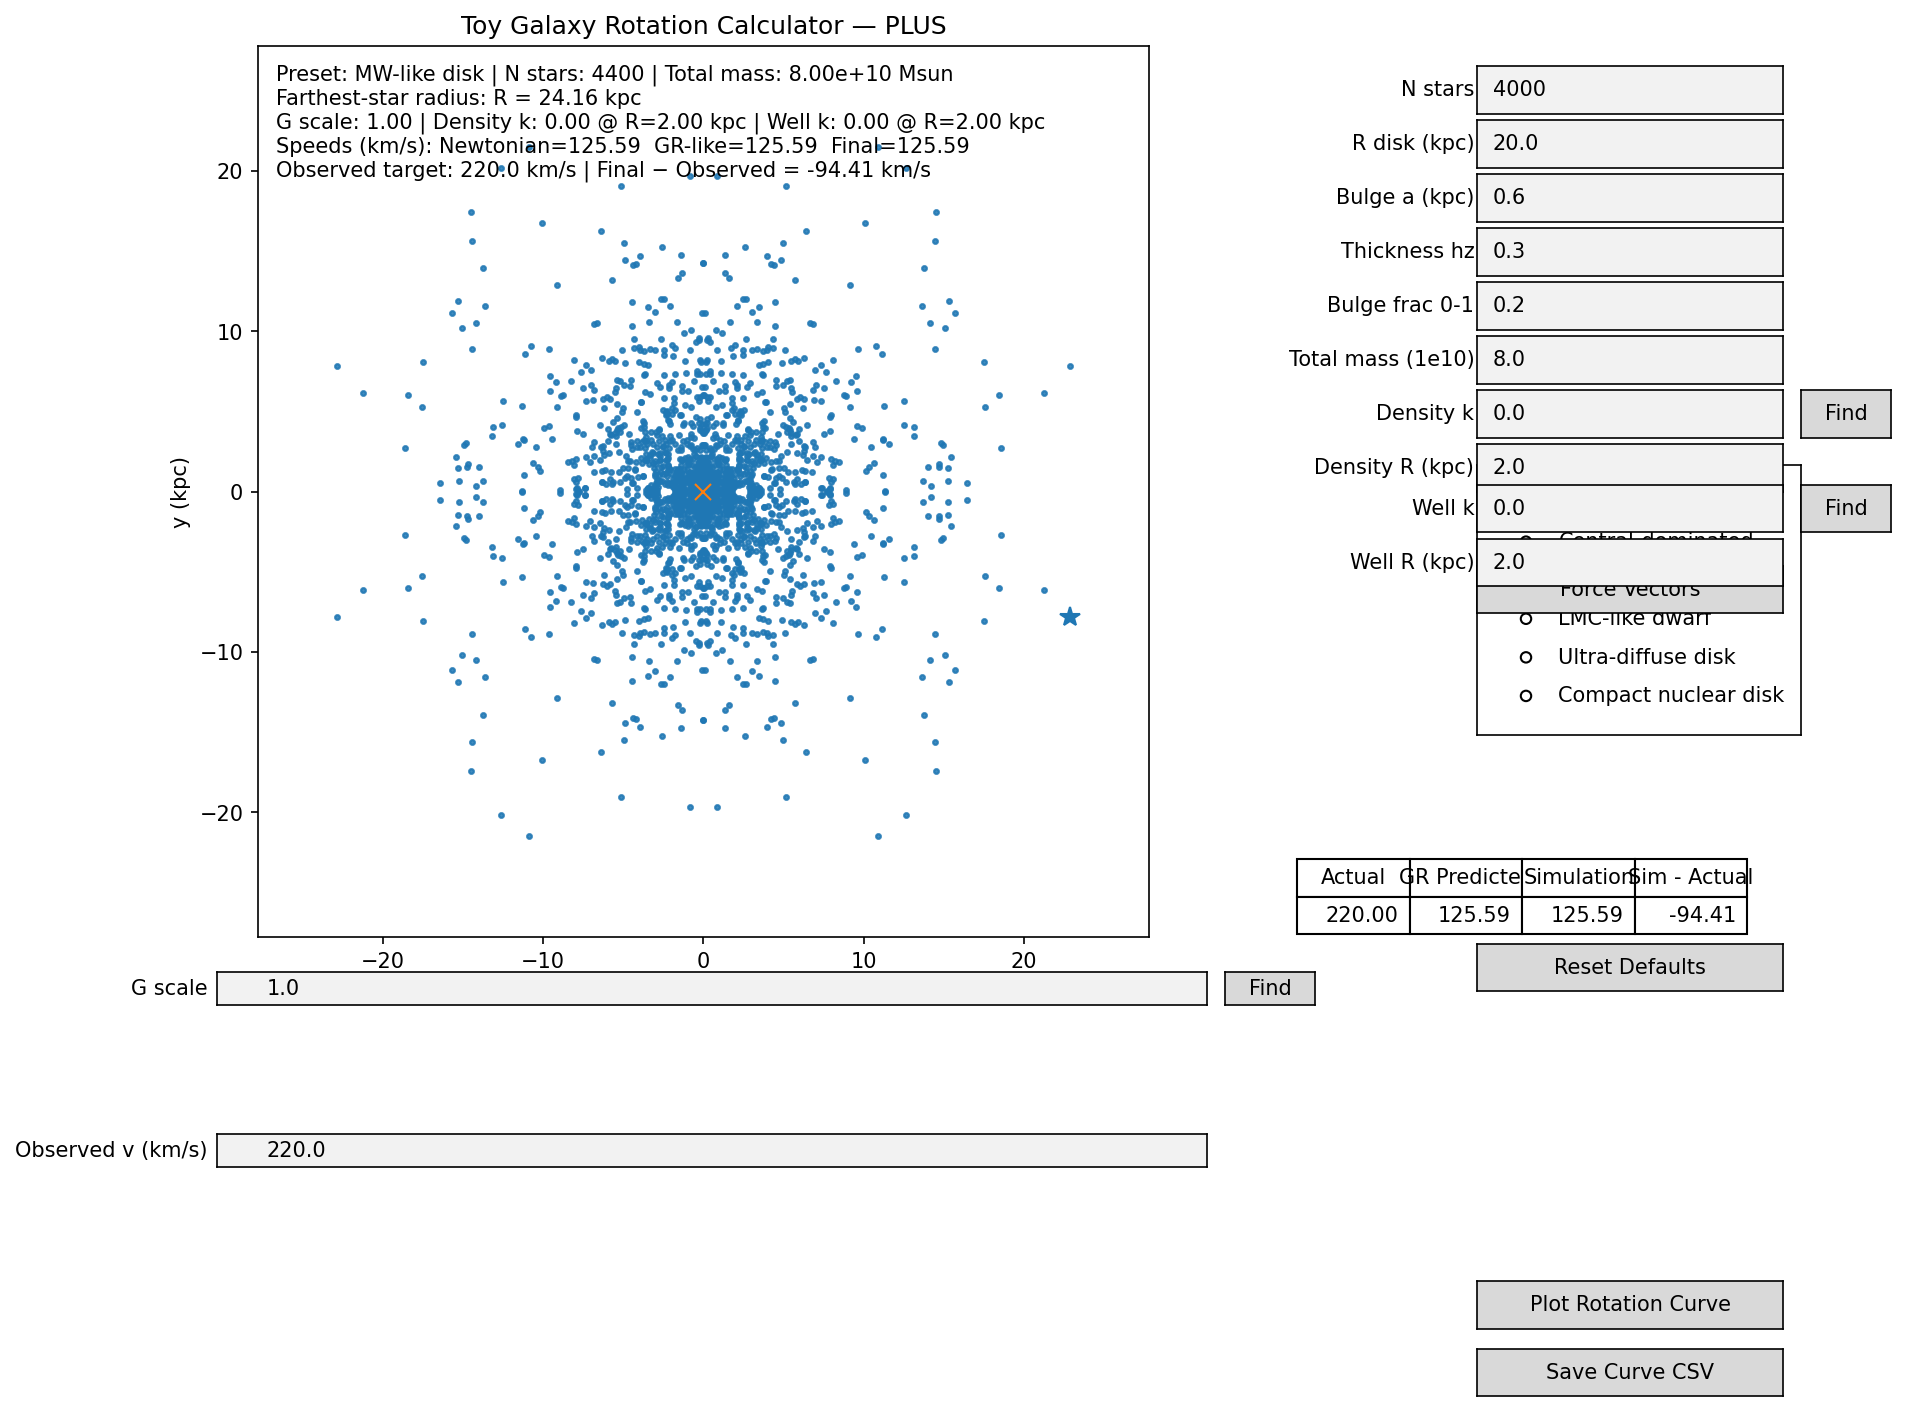
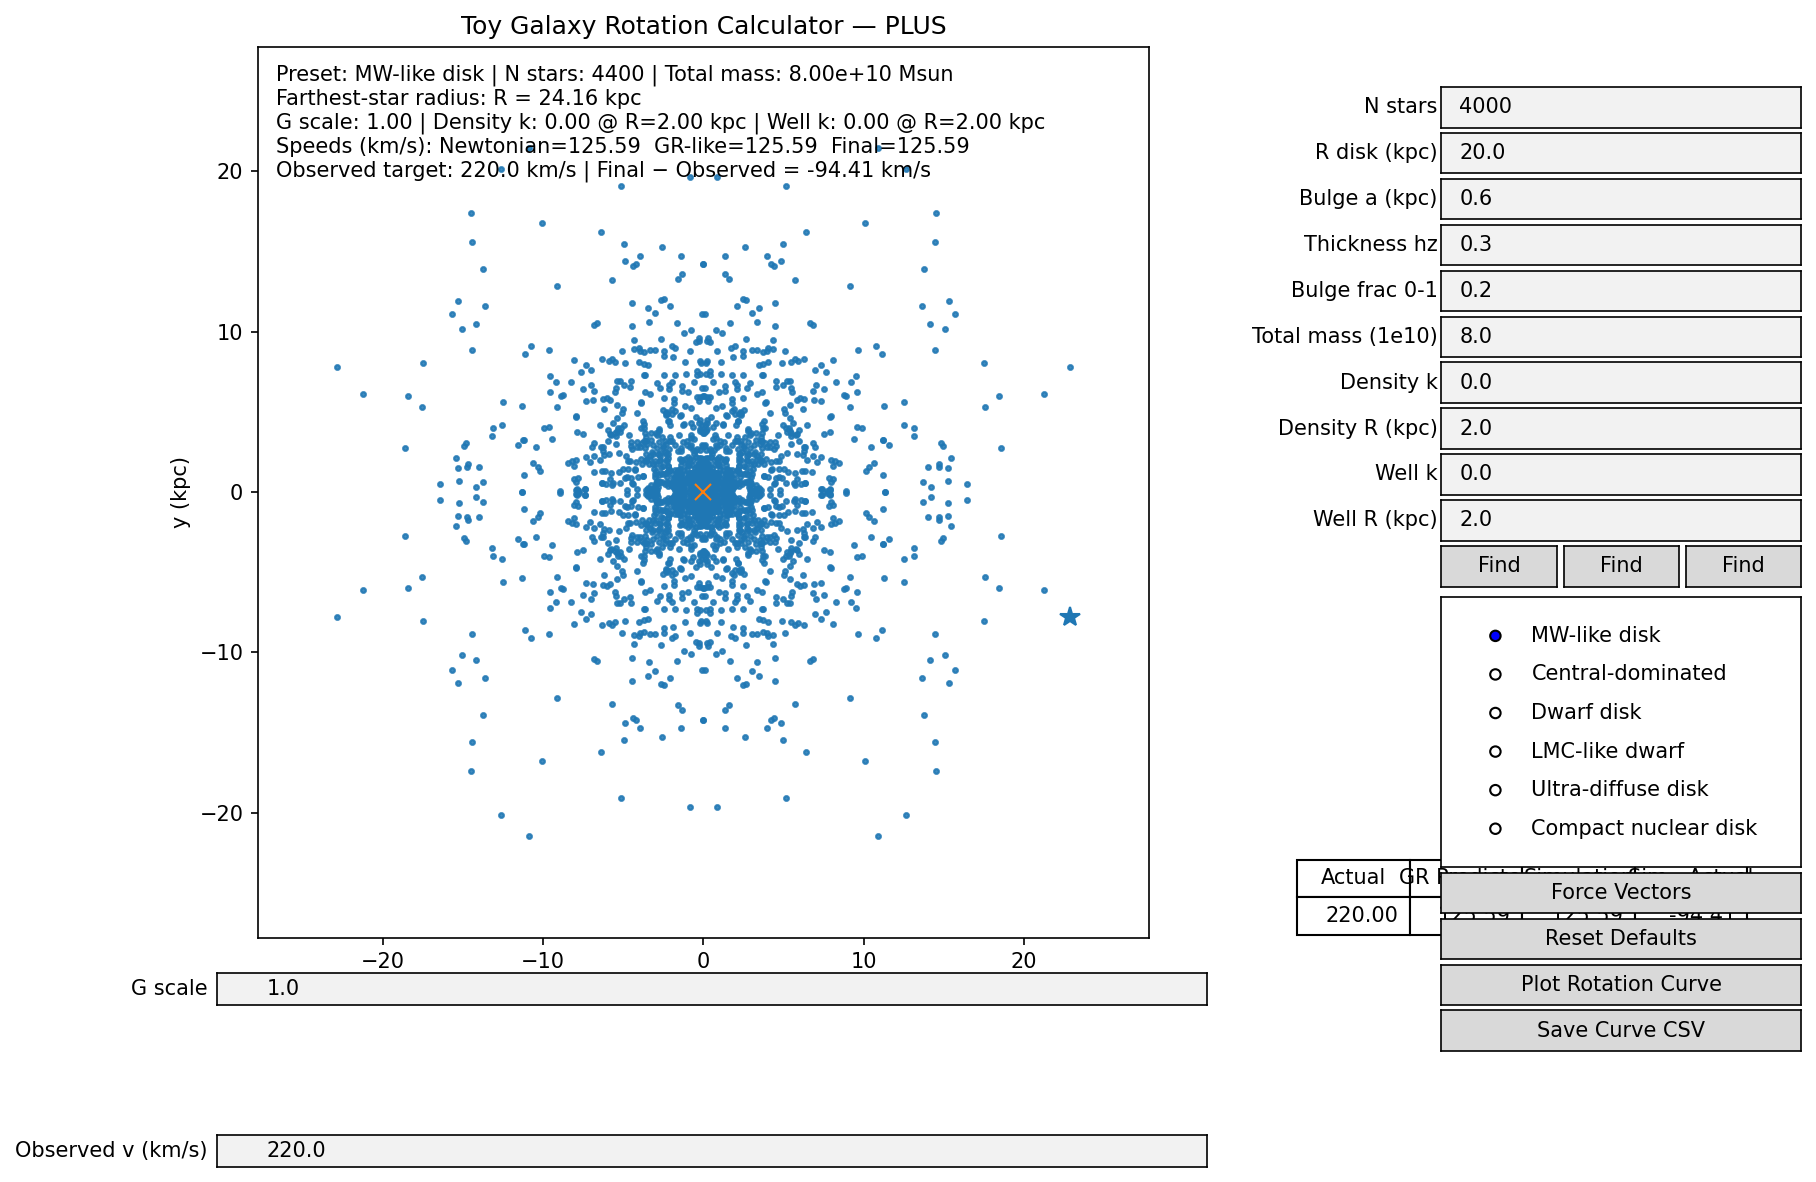
UI reflow: single compact right column with consistent spacing, dedicated small Find row, physics-only refresh for gravity knobs. Verified headless.

diff --git a/toy_galaxy_rotation_calculator_plus.py b/toy_galaxy_rotation_calculator_plus.py
@@ -587,16 +587,51 @@ def main():
         btn.on_clicked(_on_click)
         return btn
 
-    # Finder buttons: keep only for global G and density/well knobs
-    _add_finder(ax_sG,   s_Gscale, 'Find', False)
-    _add_finder(ax_sDk,  s_DensK,  'Find', False)
-    _add_finder(ax_sWk,  s_WellK,  'Find', False)
+    # Dedicated finder buttons (compact row)
+    def _bind_find_button(ax_btn, wrapper, is_structural=False):
+        btn = Button(ax_btn, 'Find')
+        def _on_click(_e=None):
+            sol = _solve_1d(wrapper, is_structural)
+            if sol is not None:
+                wrapper.set_val(sol)
+                update_readout(); fig.canvas.draw_idle(); refresh_rotation_curve()
+        btn.on_clicked(_on_click)
+        return btn
 
     # Wire simple control changes
     for ctl in [s_Nstars, s_Rdisk, s_BulgeA, s_Hz, s_BulgeFrac, s_Mtot1e10]:
         ctl.on_changed(lambda _v: build_simple_galaxy())
+
+    def physics_only(_v=None):
+        update_readout(); fig.canvas.draw_idle(); refresh_rotation_curve()
     for ctl in [s_DensK, s_DensR, s_WellK, s_WellR, s_Gscale, s_vobs]:
-        ctl.on_changed(lambda _v: refresh_main())
+        ctl.on_changed(physics_only)
+
+    # Reflow and compact the right-column UI to avoid overlap
+    def reflow_ui():
+        x = 0.78; w = 0.20; h = 0.03; pad = 0.004
+        y = 0.95
+        # Simple controls (top to bottom)
+        for ax_box in [ax_sN, ax_sR, ax_sBa, ax_sHz, ax_sBf, ax_sMt, ax_sDk, ax_sDr, ax_sWk, ax_sWr]:
+            ax_box.set_position([x, y - h, w, h]); y -= (h + pad)
+        # Finder buttons row under density/well knobs
+        ax_find_g   = fig.add_axes([x, y - h, (w-2*pad)/3, h]);
+        ax_find_dk  = fig.add_axes([x + (w-2*pad)/3 + pad, y - h, (w-2*pad)/3, h]);
+        ax_find_wk  = fig.add_axes([x + 2*((w-2*pad)/3) + 2*pad, y - h, (w-2*pad)/3, h]);
+        _bind_find_button(ax_find_g,  s_Gscale, False)
+        _bind_find_button(ax_find_dk, s_DensK,  False)
+        _bind_find_button(ax_find_wk, s_WellK,  False)
+        y -= (h + 2*pad)
+        # Presets radio
+        ax_radio.set_position([x, y - 0.20, w, 0.20]); y -= (0.20 + pad)
+        # Buttons stack
+        ax_btn_vectors.set_position([x, y - h, w, h]); y -= (h + pad)
+        ax_btn_reset.set_position([x, y - h, w, h]); y -= (h + pad)
+        ax_btn_curve.set_position([x, y - h, w, h]); y -= (h + pad)
+        ax_btn_save.set_position([x, y - h, w, h]); y -= (h + pad)
+        fig.canvas.draw_idle()
+
+    reflow_ui()
 
     fig_rot = None; rot_lines = {}; fig_vec = None; vec_state = {}
 
